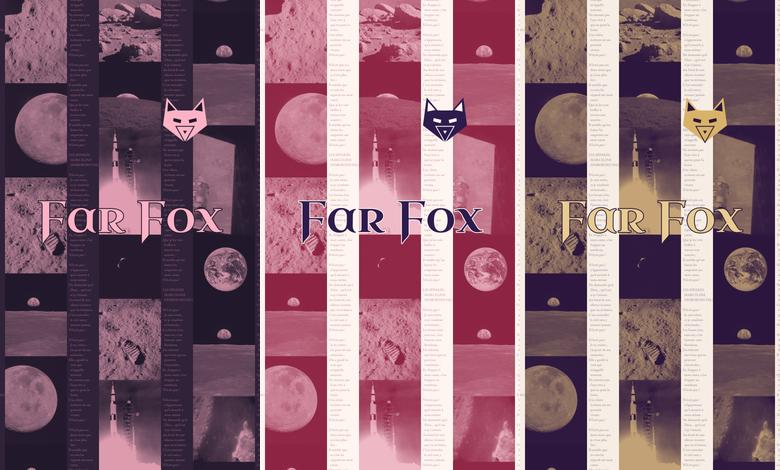
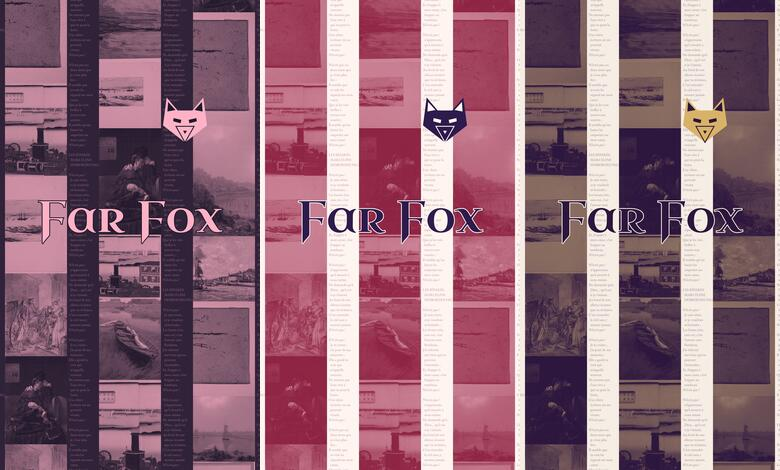
Les Séparés: departures on the front, letters on the back (#43)
The moon imagery is replaced with pictures from the poem's own century:
- Front, leaving: 14 CC0 works from the Art Institute of Chicago, Monet's Gare
  Saint-Lazare and Étretat departures, Stevens's At the Railway Station,
  Whistler and Pennell station etchings, Honfleur harbours, Fragonard.
- Back, writing: 16 CC0 items from the Smithsonian, 1840s transatlantic
  covers, valentines, The Love Letter and two Western Union telegrams.
  Confederate, Nazi-era, wartime and Mandate Palestine mail was left out.

Pale paper flattened the picture stripes on Fox Pink and Plum, so each
palette now sets its own toning (toneCap/toneGamma) to keep picture stripes
darker than cream ones. Plum's wordmark is dark plum outlined in cream, as on
Fox Pink, since gold disappeared on the sepia tiles. Print files move to
revision 3 for Printful.

diff --git a/THIRD_PARTY_NOTICES.md b/THIRD_PARTY_NOTICES.md
@@ -2,11 +2,20 @@
 
 This project includes third-party material under the licences below.
 
-## NASA imagery: Les Séparés kit photographs
+## Art Institute of Chicago: Les Séparés front artworks
 
-- **Source:** NASA Image and Video Library, https://images.nasa.gov. Front: LRC-1967-B701_P-04825, art002e021278, as11-40-5878, as11-40-5880, as11-44-6551, as15-88-11969, as15-97-13160, as16-120-19187, as16-120-19242, as16-121-19407, as17-145-22183, as17-148-22727, as17-152-23279, as17-152-23311, 6900540, 6901000. Back: art001e001712, iss036e036607, iss037e017170, iss040e092688, iss057e023128, iss058e002206, iss063e002730, iss064e002258, iss066e024016, iss066e108216, iss068e021122, iss070e062746, iss070e091714, iss071e082698, iss072e159172, iss074e0603582
-- **Licence:** NASA material is generally not subject to copyright in the United States (https://www.nasa.gov/nasa-brand-center/images-and-media/). No NASA logos or insignia are used, and nothing implies NASA endorsement.
-- **Used in:** the Les Séparés soccer kit (`public/shop/designs/les-separes/`), from `scripts/assets/les-separes/` via `scripts/make-les-separes.mjs`
+- **Source:** Art Institute of Chicago open access, https://www.artic.edu/open-access. Artwork IDs: 16571 (Claude Monet, Arrival of the Normandy Train, Gare Saint-Lazare (1877)); 39496 (Alfred Stevens, At the Railway Station (c. 1874)); 13206 (James McNeill Whistler, Railway-Station, Voves (1888)); 28792 (Joseph Pennell, Railway Station, Pittsburgh (1909)); 104146 (Joseph Pennell, The Elinor Cross, in Front of Charing Cross Railway Station (1906)); 155215 (Richard Parkes Bonington, Boats in a Harbor (c. 1824)); 152747 (Martin Johnson Heade, York Harbor, Coast of Maine (1877)); 121377 (Arthur Wesley Dow, Boats at Rest (c. 1895)); 81540 (Claude Monet, The Departure of the Boats, Étretat (1885)); 30361 (Johan Barthold Jongkind, Entrance to the Port of Honfleur (1863–64)); 187703 (Eugène Louis Boudin, Seaside, Port of Honfleur (c. 1860)); 32353 (Utagawa Yoshitora, Picture of Steam Locomotives Traveling (1870)); 12533 (Jean Honoré Fragonard, The Departure by Coach (c. 1780–89)); 117443 (Edwin Edwards, Boats in a Harbor)
+- **Licence:** public domain artworks, images released under CC0 1.0 (https://creativecommons.org/publicdomain/zero/1.0/)
+- **Used in:** the front of the Les Séparés kit (`public/shop/designs/les-separes/*-front.jpg`), from `scripts/assets/les-separes/front/` via `scripts/make-les-separes.mjs`
+- **Modified:** yes. Cropped, converted to greyscale and printed in two tones per colourway.
+
+---
+
+## Smithsonian Open Access: Les Séparés back letters and covers
+
+- **Source:** Smithsonian Open Access (National Postal Museum and National Museum of American History), https://www.si.edu/openaccess. Media IDs: NPM-2003_2019_2_2, NPM-2003_2019_2_1a, NMAH-2003-25157, NPM-2005_2005_103a, NPM-2004_2004_28a, NPM-1998_2019_2a, NPM-1992_2053_01, NPM-1995_2049_21, NPM-2004_2004_47a, NPM-2004_2004_50a, NPM-2005_2005_111a, NPM-2004_2004_29a, NPM-1995_2049_1, NPM-2004_2004_52a, NPM-1982_0157_696z, NPM-1982_0157_717
+- **Licence:** CC0 1.0
+- **Used in:** the back of the Les Séparés kit (`public/shop/designs/les-separes/*-back.jpg`), from `scripts/assets/les-separes/back/`
 - **Modified:** yes. Cropped, converted to greyscale and printed in two tones per colourway.
 
 ---
